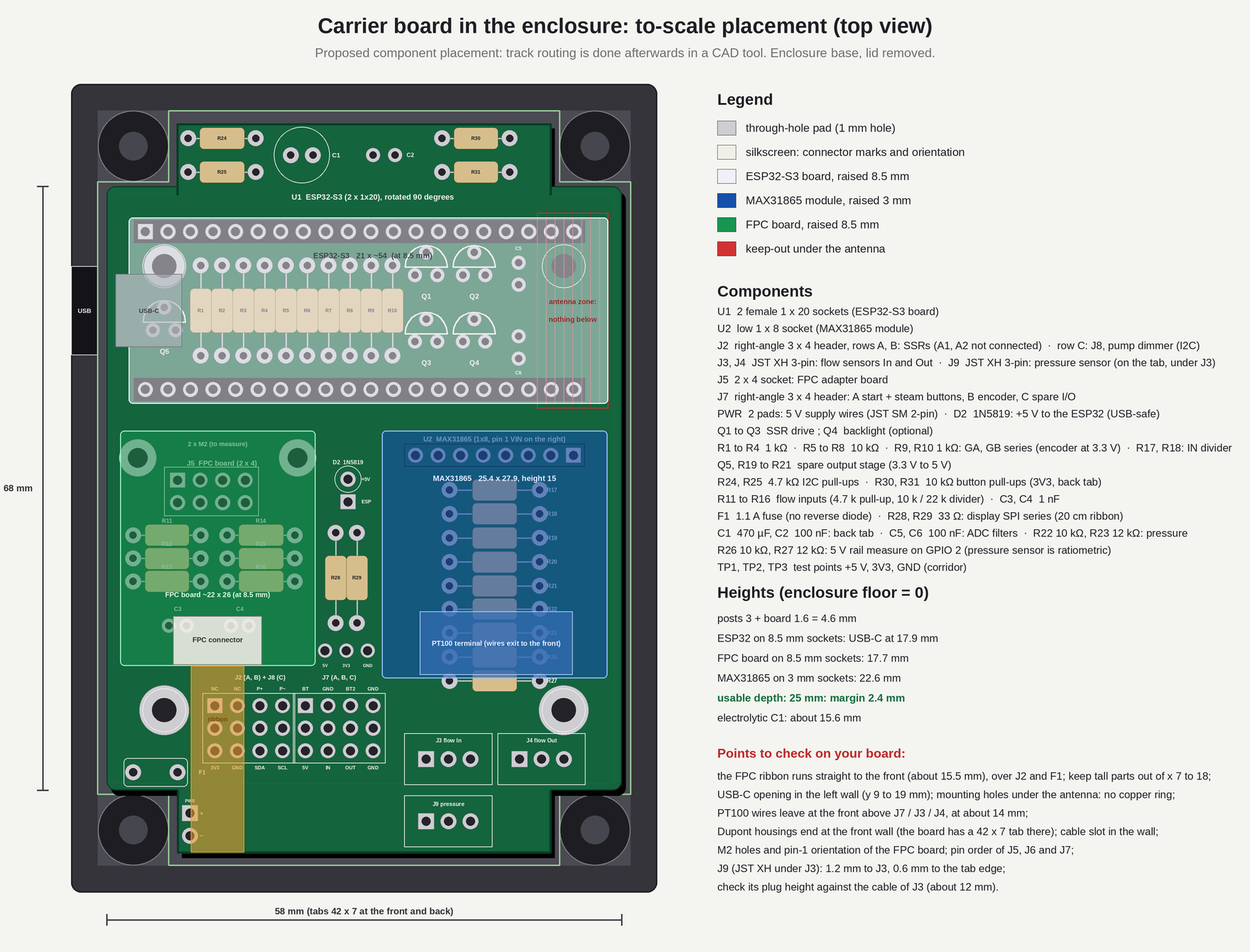
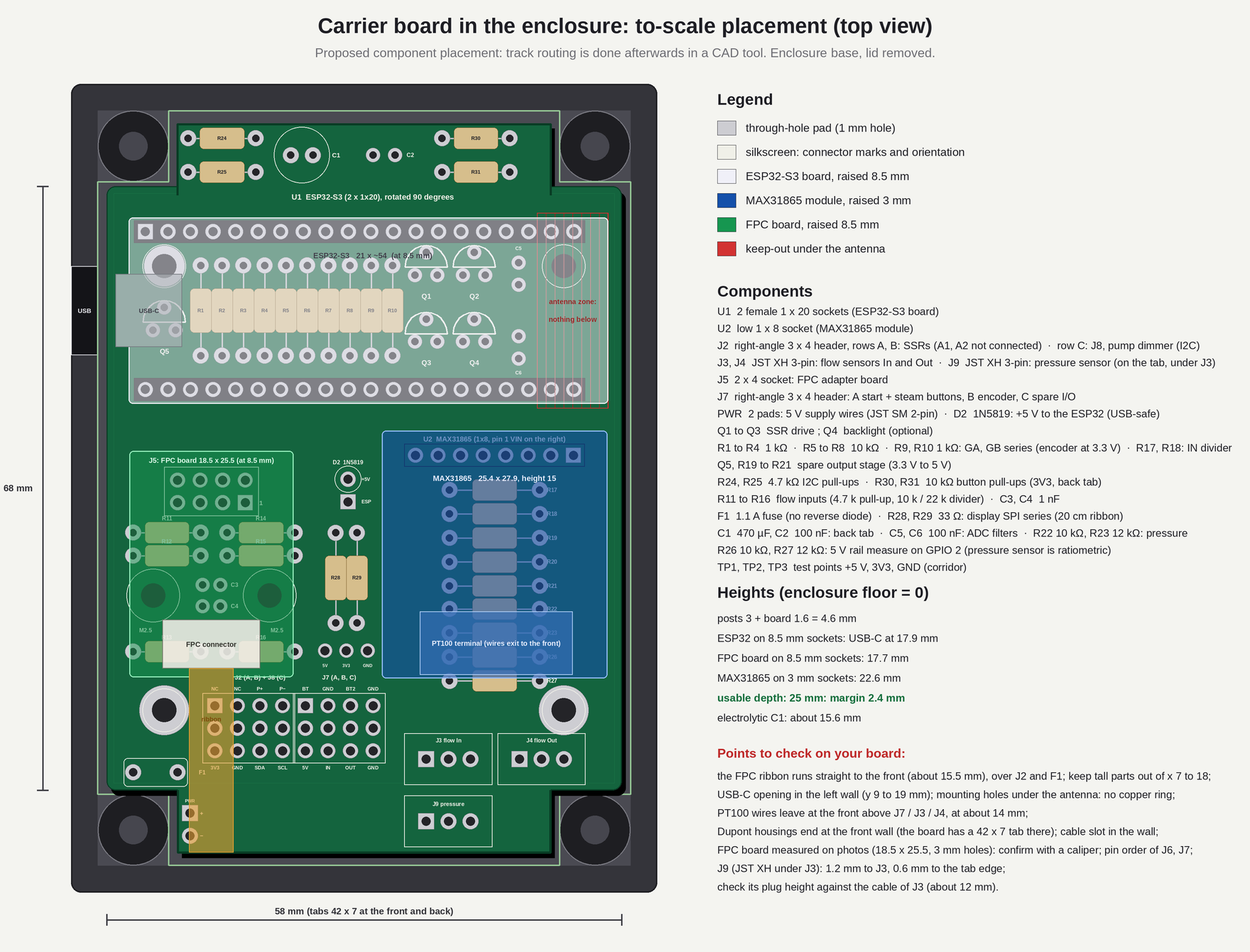
FPC adapter measured (18.5 x 25.5): outline, pin 1, M2.5 standoffs; R13/R16, C3/C4 moved
Claude-Session: https://claude.ai/code/session_012AnZeUFZeKvHXGUDRfJG7Q

Changed region(s): [[0.0938, 0.4284, 0.25, 0.8873], [0.5938, 0.8873, 0.9375, 0.9179]]

diff --git a/tools/board_placement.py b/tools/board_placement.py
@@ -163,25 +163,29 @@ rect(d, X(34.8) - 1.27 * K, Y(30.3) - 1.27 * K, X(34.8 + 7 * 2.54) + 1.27 * K, Y
 silk(43.7, 28.5, "U2  MAX31865 (1x8, pin 1 VIN on the right)", 10)
 
 # ---------------------------------------------------------------- J5: socket 2 x 4 for the FPC adapter (board at the left, connector towards the front)
+# measured adapter (photos with a ruler, +/- 0.5 mm): 18.5 x 25.5; seen from above with its connector towards the front,
+# pin 1 is at the front right: front row 7 5 3 1 (left to right), rear row 8 6 4 2
 for r_ in range(2):
     for c_ in range(4):
-        tpad(8.0 + c_ * 2.54, 33.1 + r_ * 2.54, square=(r_ == 0 and c_ == 0), ring=1.7, drill=1.0)
+        tpad(8.0 + c_ * 2.54, 33.1 + r_ * 2.54, square=(r_ == 1 and c_ == 3), ring=1.7, drill=1.0)
 rect(d, X(8.0) - 1.5 * K, Y(33.1) - 1.5 * K, X(8.0 + 3 * 2.54) + 1.5 * K, Y(35.64) + 1.5 * K, outline=SILK + (255,), width=2)
-silk(13.0, 31.2, "J5  FPC board (2 x 4)", 10)
-# two M2 holes for the standoffs of the FPC adapter (positions to be taken from your board)
-for (cx, cy) in [(3.5, 30.6), (21.5, 30.6)]:
-    hole(cx, cy, 2.2, 4.2)
-silk(12.5, 29.0, "2 x M2 (to measure)", 9)
+text(d, X(17.4), Y(35.64), "1", 9, SILK, True)
+# the adapter's two 3 mm holes (measured): non-plated holes for M2.5 nylon standoffs, no part within 3 mm of them
+for (cx, cy) in [(5.26, 46.1), (18.36, 46.1)]:
+    hole(cx, cy, 2.7, 2.7)
+    circ(d, X(cx), Y(cy), 3.0 * K, outline=SILK + (255,), width=2)
+silk(4.4, 50.0, "M2.5", 8)
+silk(19.2, 50.0, "M2.5", 8)
 
-# flow input conditioning under the adapter: R11..R16 (two columns of three, pitch 7.62) + C3, C4
+# flow input conditioning under the adapter: R11..R16 (two columns, pitch 7.62) + C3, C4 between the standoffs
 for i, name in enumerate(["R11", "R12", "R13", "R14", "R15", "R16"]):
     cx_ = 6.8 if i < 3 else 17.4
-    cy_ = 39.3 + (i % 3) * 2.6
+    cy_ = [39.0, 41.6, 52.4][i % 3]
     axial(cx_, cy_, pitch=7.62, label=None)
     text(d, X(cx_), Y(cy_) - 1.6 * K, name, 8, SILK, True)
-for i, (name, xa) in enumerate([("C3", 7.0), ("C4", 14.0)]):
-    tpad(xa, 49.5, ring=1.6, drill=0.8); tpad(xa + 2.0, 49.5, ring=1.6, drill=0.8)
-    text(d, X(xa + 1.0), Y(49.5) - 1.9 * K, name, 8, SILK, True)
+for i, (name, ya) in enumerate([("C3", 44.9), ("C4", 47.3)]):
+    tpad(10.8, ya, ring=1.6, drill=0.8); tpad(12.8, ya, ring=1.6, drill=0.8)
+    text(d, X(14.4), Y(ya), name, 8, SILK, True)
 
 # ---------------------------------------------------------------- front strip: J2 (2x4), J7 (1x6), polyfuse, diode, electrolytic, XH x2
 # Front edge: every right-angle header has its Dupont housings plugged in towards the front (about 9 mm of keep-out in front of the pads).
@@ -264,14 +268,14 @@ rrect(o, px(X(31.0)) / SS, px(Y(27.5)) / SS, px(X(56.4)) / SS, px(Y(55.4)) / SS,
 rect(o, px(X(35.3)) / SS, px(Y(47.9)) / SS, px(X(52.5)) / SS, px(Y(55.0)) / SS, fill=(46, 104, 180, 220), outline=(180, 210, 250, 255), width=2)
 text(o, X(43.7), Y(32.9), "MAX31865   25.4 x 27.9, height 15", 11, (235, 240, 255), True)
 text(o, X(43.9), Y(51.5), "PT100 terminal (wires exit to the front)", 10, (235, 240, 255), True)
-# FPC adapter board ~22 x 26.5 at x 1.5..23.5, y 27.5..54 (connector towards the front: the ribbon goes straight to the front)
-rrect(o, px(X(1.5)) / SS, px(Y(27.5)) / SS, px(X(23.5)) / SS, px(Y(54.0)) / SS, 6, fill=(22, 150, 80, 130), outline=(150, 240, 190, 255), width=3)
-rect(o, px(X(7.5)) / SS, px(Y(48.4)) / SS, px(X(17.5)) / SS, px(Y(53.9)) / SS, fill=(236, 236, 228, 230), outline=(120, 120, 110, 255), width=2)
-text(o, X(12.5), Y(51.1), "FPC connector", 10, (50, 50, 44), True)
-text(o, X(12.5), Y(46.0), "FPC board ~22 x 26 (at 8.5 mm)", 10, (230, 255, 240), True)
-# the ribbon, straight to the front (about 6 mm wide)
-rect(o, px(X(9.5)) / SS, px(Y(54.0)) / SS, px(X(15.5)) / SS, px(Y(75.0)) / SS, fill=(232, 160, 48, 150), outline=(232, 160, 48, 255), width=2)
-text(o, X(12.5), Y(60.0), "ribbon", 9, (120, 70, 10), True)
+# FPC adapter board 18.5 x 25.5 (measured) at x 2.56..21.06, y 29.8..55.3 (connector towards the front: the ribbon goes straight to the front)
+rrect(o, px(X(2.56)) / SS, px(Y(29.8)) / SS, px(X(21.06)) / SS, px(Y(55.3)) / SS, 6, fill=(22, 150, 80, 130), outline=(150, 240, 190, 255), width=3)
+rect(o, px(X(6.3)) / SS, px(Y(48.8)) / SS, px(X(17.3)) / SS, px(Y(54.3)) / SS, fill=(236, 236, 228, 230), outline=(120, 120, 110, 255), width=2)
+text(o, X(11.8), Y(51.6), "FPC connector", 10, (50, 50, 44), True)
+text(o, X(11.8), Y(30.9), "J5: FPC board 18.5 x 25.5 (at 8.5 mm)", 10, (230, 255, 240), True)
+# the ribbon, straight to the front (about 5 mm wide)
+rect(o, px(X(9.3)) / SS, px(Y(54.3)) / SS, px(X(14.3)) / SS, px(Y(75.0)) / SS, fill=(232, 160, 48, 150), outline=(232, 160, 48, 255), width=2)
+text(o, X(11.8), Y(60.0), "ribbon", 9, (120, 70, 10), True)
 base = Image.alpha_composite(base, ov)
 d = ImageDraw.Draw(base)
 
@@ -345,7 +349,7 @@ chk = [
     "USB-C opening in the left wall (y 9 to 19 mm); mounting holes under the antenna: no copper ring;",
     "PT100 wires leave at the front above J7 / J3 / J4, at about 14 mm;",
     "Dupont housings end at the front wall (the board has a 42 x 7 tab there); cable slot in the wall;",
-    "M2 holes and pin-1 orientation of the FPC board; pin order of J5, J6 and J7;",
+    "FPC board measured on photos (18.5 x 25.5, 3 mm holes): confirm with a caliper; pin order of J6, J7;",
     "J9 (JST XH under J3): 1.2 mm to J3, 0.6 mm to the tab edge;",
     "check its plug height against the cable of J3 (about 12 mm).",
 ]

diff --git a/tools/enclosure_overview.py b/tools/enclosure_overview.py
@@ -143,14 +143,14 @@ cuboid(mx + 3.8, my + 1.4, top, 19.0, 2.5, 3.0, BLACK)
 cuboid(mx, my, top + 3.0, 25.4, 27.9, 1.6, (130, 30, 40))
 cuboid(mx + 4.2, my + 20.5, top + 3.0 + 1.6, 17.0, 7.0, 10.4, (46, 120, 190))          # PT100 terminal block
 cuboid(mx + 9.4, my + 9.9, top + 3.0 + 1.6, 7, 7, 1.6, BLACK)                          # the chip
-# the FPC adapter board (~22 x 26.5) on a 2 x 4 header, at the left, FPC connector towards the front
-ax0, ay0 = CX0 + 1.5, CY0 + 27.5
+# the FPC adapter board (18.5 x 25.5, measured) on a 2 x 4 header, at the left, FPC connector towards the front
+ax0, ay0 = CX0 + 2.56, CY0 + 29.8
 HDR = 8.5
-cuboid(ax0 + 6.5, ay0 + 5.6, top, 10.2, 5.1, HDR, BLACK)
-cuboid(ax0, ay0, top + HDR, 22, 26.5, 1.6, (22, 130, 70))
-cuboid(ax0 + 6, ay0 + 19.0, top + HDR + 1.6, 10, 5.5, 2.6, WHITE)                      # its FPC connector
-cuboid(ax0 + 1.0, ay0 + 3.1, top, 3.5, 3.5, HDR, (110, 110, 118))
-cuboid(ax0 + 17.5, ay0 + 3.1, top, 3.5, 3.5, HDR, (110, 110, 118))
+cuboid(ax0 + 4.17, ay0 + 2.03, top, 10.16, 5.08, HDR, BLACK)
+cuboid(ax0, ay0, top + HDR, 18.5, 25.5, 1.6, (22, 130, 70))
+cuboid(ax0 + 3.74, ay0 + 19.0, top + HDR + 1.6, 11, 5.5, 2.6, WHITE)                    # its FPC connector
+cuboid(ax0 + 0.95, ay0 + 14.55, top, 3.5, 3.5, HDR, (110, 110, 118))                   # M2.5 nylon standoffs under its two holes
+cuboid(ax0 + 14.05, ay0 + 14.55, top, 3.5, 3.5, HDR, (110, 110, 118))
 # D2: 1N5819 standing in the former JP1 pads (corridor): +5 V board to the 5V pin of the ESP32
 cyl(CX0 + 27.2, CY0 + 33.0, 1.35, top, 5.2, (30, 30, 34))
 cuboid(CX0 + 27.2 - 0.3, CY0 + 33.0 - 0.3, top + 5.2, 0.6, 2.54 + 0.6, 0.6, (200, 200, 205))   # lead bent over to the second pad
@@ -181,7 +181,7 @@ cuboid(CX0 + 38.5 - 4.95 + 0.3, CY0 + 68.6 + 0.3, top + 5.8, 9.3, 5.2, 6.0, CREA
 # FPC ribbon: leaves the connector towards the front and runs straight out
 Y_END = CY0 + 97.0
 RZ0 = top + HDR + 1.6 + 1.2
-cuboid(ax0 + 8, ay0 + 24.5, RZ0, 6, Y_END - (ay0 + 24.5), 0.4, (232, 160, 48))
+cuboid(ax0 + 6.74, ay0 + 24.5, RZ0, 5, Y_END - (ay0 + 24.5), 0.4, (232, 160, 48))
 
 # ---------------------------------------------------------------- cables: small flat ribbons, 1.5 mm per wire (4 wires = 6 mm), 1.3 mm thick
 WIRE = 1.5
@@ -306,8 +306,8 @@ def pl(x, y, z, tx, ty, t, color=(20, 20, 26)):
 pl(ex + 30, ey + 11, top + 10.2, 330, 330, "ESP32-S3, rotated 90 deg")
 pl(CX0 + 3, CY0 + 14, top + 12, 330, 250, "USB-C: left wall opening")
 pl(mx + 12, my + 8, top + 15, 1560, 330, "MAX31865 (PT100 to the front)")
-pl(ax0 + 11, ay0 + 10, top + HDR + 1.6, 330, 430, "your FPC adapter board (on sockets)")
-pl(ax0 + 11, ay0 + 22, top + HDR + 4.2, 330, 520, "FPC connector pre-soldered")
+pl(ax0 + 9.25, ay0 + 10, top + HDR + 1.6, 330, 430, "your FPC adapter board (on sockets)")
+pl(ax0 + 9.25, ay0 + 22, top + HDR + 4.2, 330, 520, "FPC connector pre-soldered")
 pl(sx0, sy0 + 50, FLOOR + 3, 330, 640, "3 mm small posts (45 x 50)")
 pl(BX - WALL - 4, BY - WALL - 4, BASE_H, 1560, 520, "8 mm round corner posts")
 pl(CX0 + 30, BY, FW, 1560, 640, "slot to cut in the front wall (cables)")
@@ -317,7 +317,7 @@ pl(CX0 + 27.2, CY0 + 34, top + 5.5, 330, 740, "D2: diode, +5 V to the ESP32")
 ends = []
 for (n, lab, conn, wires, col, end) in CABLES:
     ends.append((n, end, col))
-ends.append((RIBBON_NUMBER, (ax0 + 11, Y_END, RZ0), (232, 160, 48)))
+ends.append((RIBBON_NUMBER, (ax0 + 9.25, Y_END, RZ0), (232, 160, 48)))
 order = sorted(ends, key=lambda e: e[1][0])
 for rank, (n, p, col) in enumerate(order):
     u, v = P2(*p)
@@ -332,7 +332,7 @@ for rank, (n, p, col) in enumerate(order):
 
 # cable legend
 text(560, 955, "Cables: small flat ribbons, 1.5 mm per wire (all leave through the front slot)", 20, (30, 30, 36), True)
-entries = [(n, "%s  %s  (%s)" % (conn, lab, SIZE_LABEL.get(n, "%d wires, %.1f mm" % (wires, wires * WIRE))), col) for (n, lab, conn, wires, col, end) in CABLES] + [(RIBBON_NUMBER, "J5  display FPC ribbon (6 mm)", (232, 160, 48))]
+entries = [(n, "%s  %s  (%s)" % (conn, lab, SIZE_LABEL.get(n, "%d wires, %.1f mm" % (wires, wires * WIRE))), col) for (n, lab, conn, wires, col, end) in CABLES] + [(RIBBON_NUMBER, "J5  display FPC ribbon (5 mm)", (232, 160, 48))]
 per_col = 7
 for i, (n, lab, col) in enumerate(entries):
     cx = 580 + (i // per_col) * 560

diff --git a/tools/board_schematic.py b/tools/board_schematic.py
@@ -75,7 +75,7 @@ for i, (lab, col) in enumerate([("+5 V", RED), ("signal", BLU), ("GND", DK)]):
     pin(60 + i * 88, 562, lab, col, 14)
 
 # ---- J5
-head(60, 790, "J5: 2 x 4 socket for your FPC adapter board (8 pins)", "your board's numbering: top row 1, 3, 5, 7; bottom row 2, 4, 6, 8")
+head(60, 790, "J5: 2 x 4 socket for your FPC adapter board (8 pins)", "odd row 1, 3, 5, 7 on the FPC connector side (pin 1 front right), even row 2, 4, 6, 8 behind")
 fpc_top = [("1", "BLK"), ("3", "DC"), ("5", "SDA"), ("7", "VCC")]
 fpc_bot = [("2", "CS"), ("4", "RES"), ("6", "SCL"), ("8", "GND")]
 for i, (n, sg) in enumerate(fpc_top):

diff --git a/docs/carrier_spec.md b/docs/carrier_spec.md
@@ -11,10 +11,10 @@ All **through-hole** parts (no SMD soldering). Related files: `images/board_plac
 - **ESP32-S3 rotated 90 degrees** (long side across the board, at the back, y 3.5 to 24.5 mm): **USB-C towards the left wall**, with an opening in that wall at y 9 to 19 mm (the connector is then far from the 8 mm corner posts). The antenna end is on the right (x 48.5 to 56.5 mm).
 - **Under the ESP32 (between the two socket rows, 8.5 mm clearance):** vertical axial resistors R1 to R10, then Q1 to Q4 on the right, in two rows of two (TO-92 bodies are 4.8 mm wide); every TO-92 (Q1 to Q5) uses a **triangular footprint**: outer legs 2.54 mm apart, middle leg bent 2.54 mm back, 1.6 mm pads (three round pads in line at 1.27 mm would overlap and short the legs); Q5 (spare output) at the left, next to the USB end. C5 and C6 (100 nF, filters of the ADC inputs GPIO 1 and GPIO 2) stand right of Q2 / Q4, at x 46.4, close to the GPIO 1 / 2 pins and just outside the antenna keep-out. The two small standoffs at the back (6.5, 9) and (51.5, 9) are under the ESP32 (screw them before plugging the ESP32 in); the copper ring of the hole at (6.5, 9) is reduced to 4.6 mm, because a 5.6 mm ring comes within 0.26 mm of a pad of the back socket row; the one on the right is under the antenna, so use a **non-plated hole with no copper ring** there, and a **nylon M2.5 screw** (a metal screw right under the antenna detunes it).
 - **Connector rows:** J8 is the lowest row of the J2 header; J7 is also a 3 x 4 right-angle strip (row A: start and steam buttons, row B: encoder, row C: spare I/O); each row has its own Dupont housing, rows are 2.54 mm apart vertically, the housings are not keyed: mind the order. J8 and J9 both have their plug and cable. The corridor between the FPC board and the MAX31865 holds D2 (ESP32 supply diode), R28 / R29 (33 Ω, display SPI) and the test points TP1 to TP3.
-- **Below the ESP32, side by side:** the FPC adapter board on the **left** (x 1.5 to 23.5 mm, connector towards the front, flow-input parts R11 to R16 and C3, C4 under it), the MAX31865 on the **right** (x 31 to 56.4 mm, rotated 180 degrees: header on its rear edge, pin 1 VIN on the right, PT100 terminal block facing the front), and a corridor between them (x 23.5 to 31 mm) holding D2, R28, R29 and TP1 to TP3.
+- **Below the ESP32, side by side:** the FPC adapter board on the **left** (**18.5 x 25.5 mm, measured on photos**; x 2.6 to 21.1 mm, y 29.8 to 55.3 mm, connector towards the front; two **M2.5 nylon standoffs** under its two 3 mm holes, on non-plated holes of the carrier at (5.26, 46.1) and (18.36, 46.1); flow-input parts R11 to R16 and C3, C4 under it, at least 3 mm away from the standoffs: R11 / R12 and R14 / R15 at y 39.0 / 41.6, R13 / R16 at y 52.4, C3 / C4 between the standoffs), the MAX31865 on the **right** (x 31 to 56.4 mm, rotated 180 degrees: header on its rear edge, pin 1 VIN on the right, PT100 terminal block facing the front), and a corridor between them (x 23.5 to 31 mm) holding D2, R28, R29 and TP1 to TP3.
 - **Front connector row:** right-angle headers with their Dupont housings need about **9 mm in front of the pads** (keep-out, nothing else there); J2 and J7 are on the 42 x 7 mm tab, the vertical JST XH J3 and J4 at the front right, F1 in the front-left corner, and the **PWR pads** (5 V supply wires, see Circuits) at the left end of the tab (x 9.4, y 70.6 and 73.1), left of the J2 housings. A cable slot is needed in the front wall (housings end about 1 mm from it).
 - **All cables leave through the front** (the 5 V supply wires, J2, J7, J8, J3, J4, J9, the PT100 wires and the display ribbon). Only the USB-C cable leaves through the left wall.
-- **Display ribbon:** the FPC adapter board is rotated so that its connector faces the front: the flat ribbon (about 6 mm wide, at about 15.5 mm) runs **straight to the front** between x 7 and 18 mm, above J2's housings (10.5 mm) and F1; no tall part (JST XH plugs reach about 16 mm) may sit in that column. Nothing crosses the MAX31865 any more.
+- **Display ribbon:** the FPC adapter board is rotated so that its connector faces the front: the flat ribbon (about 5 mm wide: 8 contacts at 0.5 mm; at about 15.5 mm) runs **straight to the front** between x 9.3 and 14.3 mm (keep x 7 to 18 mm free), above J2's housings (10.5 mm) and F1; no tall part (JST XH plugs reach about 16 mm) may sit in that column. Nothing crosses the MAX31865 any more.
 - **Cables:** small flat ribbons (Dupont wires side by side), about **1.5 mm per wire** (4 wires = 6 mm, 3 wires = 4.5 mm, 2 wires = 3 mm), 1.3 mm thick. In the 3D view the cables are numbered 1 to 13 (5 V supply, J2 x2, J7 x4, J8, J3, J4, J9, PT100 probe, display ribbon); J3 / J4 leave their plugs upwards at about 12 mm and the two thin PT100 wires (0.8 mm, on the two middle terminals of the MAX31865 block) at about 15 mm; all go through the front slot. J9 (pressure sensor, 3 wires = 4.5 mm) leaves its plug upwards at about 14 mm, like J3 / J4. J8 (pump dimmer, 4 wires = 6 mm) comes out of the lowest housing of the J2 header, under the two J2 ribbons.
 - The spare-I/O resistors R17 to R21, then R22 / R23 (pressure) and R26 / R27 (rail measure) are flat resistors under the MAX31865 (3 mm clearance, enough for axial 1/4 W parts, about 2.5 mm thick). **Check under the PT100 terminal block** (front edge of the module, above R22 to R26): its through-hole leads stick out under the module, often by 1 to 1.5 mm; trim them flush with the solder joints, or put a piece of Kapton tape under the module, or use 1/8 W resistors (about 1.8 mm) there.
 - No copper and no component under the ESP32 antenna (the end of the ESP32 board opposite the USB-C). The last socket pads at that end (GPIO 01 / 02 on one row, 45 / 46 on the other) fall in or next to the keep-out: route their traces (GPIO 1 pressure, GPIO 2 rail measure) straight away from the antenna, towards the USB end, and stop the ground plane at x 48.5.
@@ -97,16 +97,18 @@ G1/4 sensor, 0 to 12 bar, 0.5 to 4.5 V output. The signal goes through a divider
 ### J3 / J4 (JST XH 3-pin)
 1 = +5 V, 2 = signal, 3 = GND. The exact order comes from the sensor cable (often red / yellow / black). J3, J4 and J9 have the same pinout: plugging a sensor into the wrong one of the three is harmless (only the firmware reading is wrong).
 
-### J5 (FPC adapter board, your numbering: top row 1 3 5 7, bottom row 2 4 6 8)
+### J5 (FPC adapter board: odd row 1 3 5 7 on its connector side, even row 2 4 6 8 behind)
+Seen from above with the adapter's connector towards the front (photos of the adapter): the front row reads 7 5 3 1 from left to right, the rear row 8 6 4 2; **pin 1 is at the front right** (square pad of J5).
+
 Read on the photo of the display module (1.28" round TFT V1.0, GC9A01, 240 x 240, active diameter 32.4 mm): its 8-pin FPC connector J1 is silkscreened, from left to right, **BLK, CS, DC, RES, SDA, SCL, VCC, GND**. Assuming a straight ribbon and an adapter that maps FPC pin n to header pin n:
 
 | | 1 | 3 | 5 | 7 |
 |---|---|---|---|---|
-| top row | BLK (GPIO 14) | DC (GPIO 9) | SDA = MOSI (GPIO 11) | VCC (+3.3 V) |
+| front row | BLK (GPIO 14) | DC (GPIO 9) | SDA = MOSI (GPIO 11) | VCC (+3.3 V) |
 
 | | 2 | 4 | 6 | 8 |
 |---|---|---|---|---|
-| bottom row | CS (GPIO 10) | RES (GPIO 8) | SCL = SCK (GPIO 12) | GND |
+| rear row | CS (GPIO 10) | RES (GPIO 8) | SCL = SCK (GPIO 12) | GND |
 
 SDA and SCL are the SPI data and clock (write-only, the display has no MISO); the display shares the SPI bus with the MAX31865 (own chip select). Firmware: the MAX31865 uses SPI mode 1 (or 3) and the GC9A01 mode 0, so each access must use its own SPI transaction settings, and no MAX31865 read may happen during a DMA transfer to the display. The module carries its own backlight transistor and resistors (Q2, R1 to R3 on the photo), so **BLK is driven directly from GPIO 14**: the 2N2222A stage Q4 and its two resistors become **optional**, to be fitted only if the module's schematic shows that BLK drives the LED directly. **The ribbon is 20 cm long**, so SCL (SCK, GPIO 12) and SDA (MOSI, GPIO 11) go to J5 through **33 Ω series resistors (R28, R29)**, on the J5 branch only (the MAX31865 stays directly on the bus), as close to the ESP32 pins as routing allows: they soften the clock edges that would otherwise ring along the ribbon (general design practice, not from a data sheet; replace them by 0 Ω links if the display works without). Firmware: start the display SPI at about 20 to 27 MHz and raise it only if the image stays clean (40 MHz or more over 20 cm of flat ribbon may give corrupted pixels); on the ribbon, SCL sits between SDA and VCC with GND at the end, which is not ideal for a fast clock. The display is powered from 3.3 V.
 
@@ -142,7 +144,7 @@ Silkscreen read on the photo, left column from the USB-C end: GND, 5V, G48, BOOT
 | 1 | ESP32-S3 N16R8 board (owned) | 0 |
 | 2 | 1 x 20 female sockets, 8.5 mm | 1 € |
 | 1 | MAX31865 module (owned) + low 1 x 8 female socket **for square 0.64 mm pins** (not a turned-pin SIL socket: those take round 0.41 to 0.51 mm leads only) | 0.3 € |
-| 1 | 8-pin FPC board (owned) + 2 x 4 male header + 2 x 4 female socket | 0.5 € |
+| 1 | 8-pin FPC board (owned) + 2 x 4 male header + 2 x 4 female socket + 2 M2.5 nylon standoffs and 4 nylon screws | 1 € |
 | 1 | 3-row right-angle 2.54 mm male header strip ("courbé" 3 x 40, e.g. Funduino, about 1.7 €): cut two 3 x 4 (J2 + J8, and J7) | 1.7 € |
 | 1 | JST SM 2-pin plug and socket pair (owned) + about 30 cm of two-wire cable (5 V supply, PWR) | 0 |
 | 3 | JST XH 3-pin vertical headers to solder on the board (J3, J4, J9); the cable plugs are owned | 0.7 € |
@@ -160,13 +162,13 @@ Silkscreen read on the photo, left column from the USB-C end: GND, 5V, G48, BOOT
 1. Display ribbon (J5): the pinout of the module is known (BLK, CS, DC, RES, SDA, SCL, VCC, GND); still to confirm the ribbon type (straight or reversed contacts) and the adapter's FPC-pin-to-header mapping, and the backlight polarity of BLK.
 2. Encoder: pin order GA, GB, VCC, GND confirmed (Funduino data sheet); pull-ups measured, 6.6 kΩ to VCC (3.3 kΩ resistors); the two end components on the module are not identified (capacitor or push resistor).
 3. ESP32-S3 board: **confirmed**, 2 x 20 pins, rows 17.78 mm apart, 21 mm wide.
-4. Dimensions of your FPC adapter board (about 22 x 26 mm estimated) and position of its mounting holes.
+4. FPC adapter board, measured on photos with a ruler (about +/- 0.5 mm): 18.5 x 25.5 mm; 2 x 4 header centred across the width, its columns 3.3 and 5.8 mm from the rear (header) edge; two holes of about 3 mm (M2.5), centred 2.7 mm from the long edges and 16.3 mm from the rear edge (13.1 mm apart); FPC connector (8 contacts, 0.5 mm, about 11 x 5.5 mm) on the front edge, opening towards the edge. Confirm with a caliper before routing, and measure the standoff length on the assembled stack (8.5 mm socket plus the plastic of the male header).
 5. Flow sensors: the In sensor is a USN-HS06PD (5 V output, high at least 4.5 V); the circuit (4.7 kΩ pull-up, 10 kΩ / 22 kΩ divider) suits 5 V outputs, open collectors and internal pull-ups; check the wire order of the XH plug (it varies by batch).
 6. MAX31865 module (Adafruit, measured from the manufacturer's drawing): 25.4 x 27.9 mm, mounting holes 0.9" apart and 0.1" from the terminal-block edge, 1 x 8 header at 0.1" pitch on the short edge.
 7. Pump dimmer: one-time switch from UART to I2C (see J8); behaviour with the vibration pump to test; powered from 3.3 V, no level shifter; pull-ups of the module, if any; its 3.3 V consumption.
 8. Pressure sensor: confirm 3 wires (+5 V, GND, signal) and the G1/4 fitting on the hydraulic circuit; check its **temperature rating** (many G1/4 transducers stop at 85 °C): tapped on the T next to the boiler it may see hot water, so a short metal pipe or a small loop between the T and the sensor keeps it cooler.
 9. USB-C opening in the left wall (y 9 to 19 mm) and the USB cable bend outside the box.
-10. Display ribbon: **20 cm long** (hence R28 / R29 and a moderate SPI clock); thickness and pin-1 orientation of your FPC adapter board; the column x 7 to 18 mm in front of it must stay free of tall parts.
+10. Display ribbon: **20 cm long** (hence R28 / R29 and a moderate SPI clock); thickness of your FPC adapter board (pin 1 orientation read on the photos); the column x 7 to 18 mm in front of it must stay free of tall parts.
 11. MAX31865: powered from 3.3 V, so SDO is 3.3 V (settled).
 12. Rotary knob (CJMCU-111, photo: pins GA, GB, VCC, GND): the push is on the GA line through a 3 kΩ resistor; the firmware's encoder library handles it from the GA / GB edges (as on the Nano). Pull-ups measured: 6.6 kΩ from GA / GB to VCC. **Done: the 0 Ω hack** (push resistor bridged, pins 4 and 1), required with the encoder at 3.3 V. The library's analog alternative (330 Ω and an analog read of GA) is not kept: with the 3.3 kΩ pull-up at 3.3 V a push would give only about 0.3 V against 0 V for a rotation step, too close to tell apart reliably on the ESP32 ADC (and `analogRead()` must not be called inside an interrupt routine on the ESP32).
 13. Supply level of the sensors: **settled**, D1 removed (no reverse-protection diode), so the +5 V rail is about 5.0 V (5.1 V supply minus F1), at the 5 V minimum of the USN-HS06PD; R23 and R27 are 12 kΩ so that the rail measure stays at 2.7 V on GPIO 2. Check the supply range of the pressure sensor (often 5 V ± 0.25 V) and the polarity of the JST SM plug (no reverse protection any more).

diff --git a/docs/decisions.md b/docs/decisions.md
@@ -13,6 +13,7 @@ A record of the choices made while designing the carrier board (conversation wit
 - ESP32-S3 N16R8 board measured: 21 mm wide, 2 x 20 pins, rows 17.78 mm apart. Rotated 90°, USB-C to the left wall, antenna end on the right with a copper keep-out.
 - J3, J4, J9 moved 3.5 mm left (and J3 / J4 back 0.5 mm) to get margin from the board edge and between J3 and J9.
 - Q1 to Q4: two rows of two (in-line they overlapped R10 and each other). All TO-92 use a **triangular footprint** (outer legs 2.54 mm apart, middle leg bent 2.54 mm back): three round pads in line at 1.27 mm overlap and would short the legs (found by an automatic pad-clearance check).
+- FPC adapter measured on photos (18.5 x 25.5 mm, two 3 mm holes near its connector end): it now sits at x 2.6 to 21.1, y 29.8 to 55.3, J5 unchanged (pin 1 at the front right). Its two holes get **M2.5 nylon standoffs** on non-plated holes of the carrier, so that the ribbon cannot lever the adapter off its header; R13 / R16 moved to y 52.4 and C3 / C4 between the standoffs to keep 3 mm around them.
 - Mounting hole at (6.5, 9): copper ring reduced to 4.6 mm (a 5.6 mm ring came within 0.26 mm of a socket pad). Hole under the antenna: non-plated, **nylon screw**.
 
 ## Connectors

diff --git a/docs/order_farnell.md b/docs/order_farnell.md
@@ -16,7 +16,7 @@ Farnell (11.99 EUR excl. VAT delivery below 50 EUR) and Mouser (25 EUR delivery 
 
 **Note on C1 (the spec and the schematic still say 330 to 470 uF, deliberately not changed):** the 330 uF 6.3 mm part was not available cheaply (Reichelt only has 8 x 11.5 mm; TME sells the Panasonic by 200 or the Rubycon by 958). The Funduino 220 uF 10 V is a stop-gap: 6.5 mm diameter, 8 mm tall, 10 V (2 x margin on the 5.0 V rail); pitch (probably 2.5 mm) and temperature rating (85 or 105 C?) are not given, so check both on arrival. C1 only smooths the 5 V rail, so a third less capacitance is acceptable; if the enclosure runs hot, prefer the Panasonic ECA1AHG331 (105 C, Farnell 1907187).
 
-**Still missing**: low 1 x 8 socket for the MAX31865, M2.5 nylon screw.
+**Still missing**: low 1 x 8 socket for the MAX31865; M2.5 nylon screw (antenna hole) and 2 M2.5 nylon standoffs with 4 screws (FPC adapter; length measured on the assembled header stack).
 
 The Farnell section below is kept as the fallback (it is the only source checked for C1, ECA1AHG331).
 
